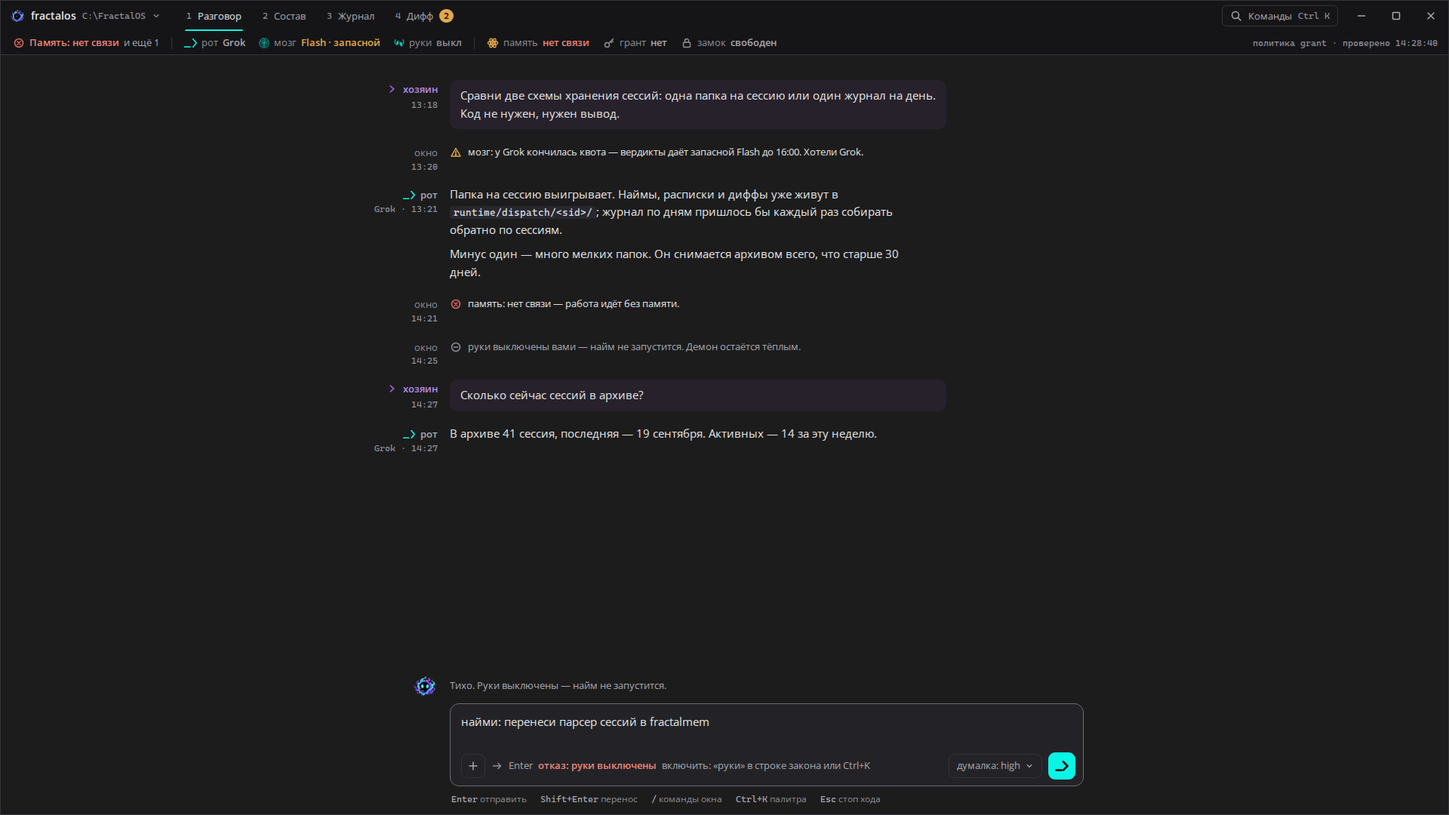
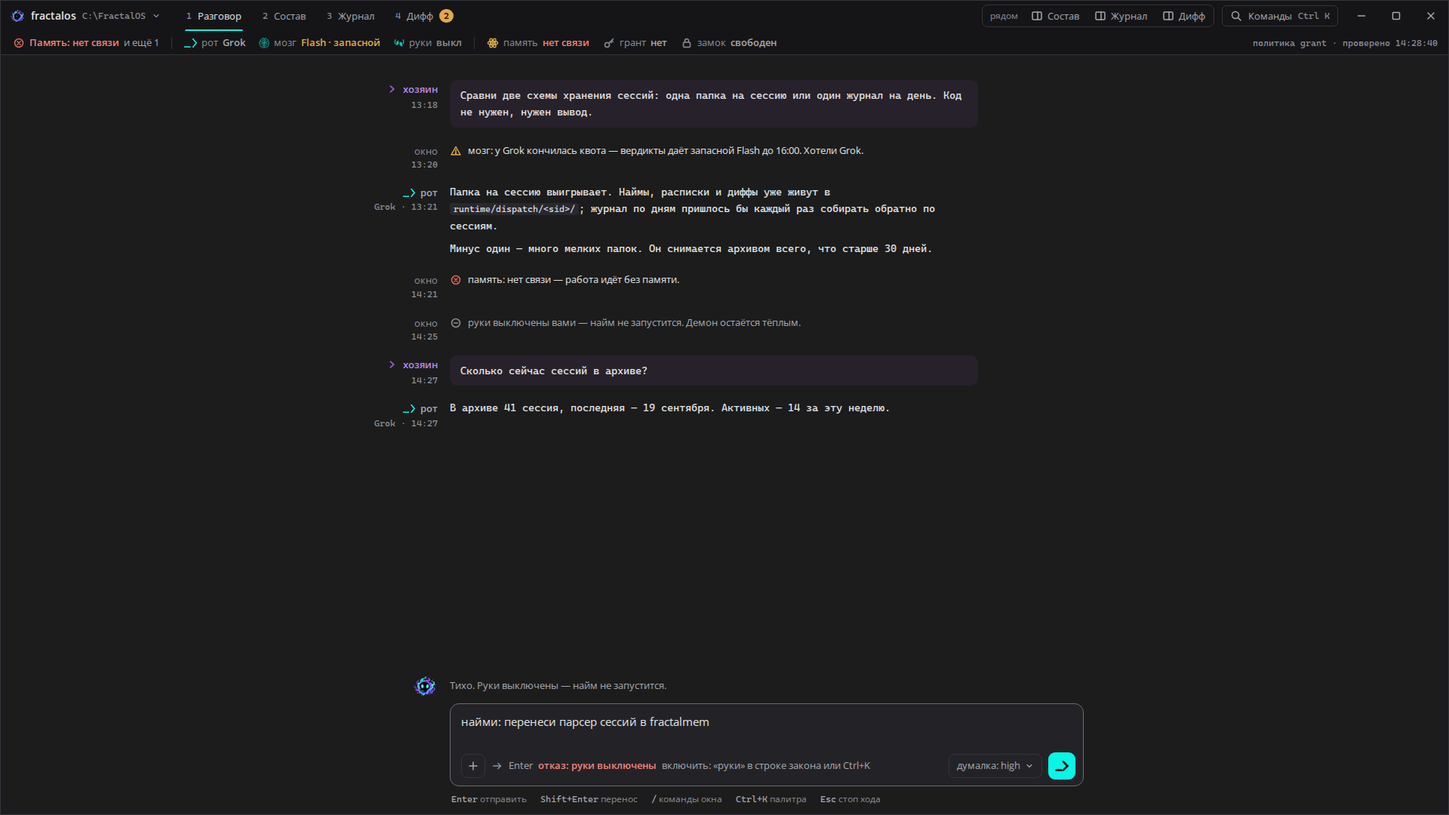
Раунд 1: лента моноширинным, кнопки «рядом» для дополнительных поверхностей
Claude-Session: https://claude.ai/code/session_01GEYAgXC2CYMH5bK9vX1dSj

Changed region(s): [[0.25, 0.1833, 0.625, 0.55], [0.3125, 0.0917, 0.6562, 0.1528], [0.6875, 0.0, 0.8438, 0.0306]]

diff --git a/rounds/01-terminal/index.html b/rounds/01-terminal/index.html
@@ -66,6 +66,11 @@ code,.mono{font-family:var(--font-mono)}
 .tab[aria-selected="true"]::after{content:"";position:absolute;left:12px;right:12px;bottom:0;height:2px;border-radius:2px 2px 0 0;background:var(--teal)}
 .badge{font:600 12px/18px var(--font-mono);color:var(--ink);background:var(--gold);border-radius:9px;padding:0 6px}
 .drag{flex:1;min-width:24px}
+.beside{display:flex;align-items:center;gap:2px;align-self:center;margin-right:10px;padding:2px;border:1px solid var(--line);border-radius:8px}
+.beside .lbl{padding:0 6px 0 8px;font-size:12px;color:var(--fg-3)}
+.beside button{display:flex;align-items:center;gap:6px;height:24px;padding:0 9px;border:0;border-radius:6px;background:none;color:var(--fg-2);font-size:13px}
+.beside button:hover{background:var(--bg-hover);color:var(--fg)}
+.beside button[aria-pressed="true"]{background:var(--select);color:var(--fg)}
 .pal-btn{display:flex;align-items:center;gap:8px;align-self:center;height:28px;margin-right:8px;padding:0 10px;border:1px solid var(--line);border-radius:var(--r-m);background:none;color:var(--fg-2);font-size:13px}
 .pal-btn:hover{border-color:var(--line-ctrl);color:var(--fg)}
 .winctl{display:flex}
@@ -88,11 +93,15 @@ code,.mono{font-family:var(--font-mono)}
 
 /* виды */
 .views{position:relative;display:grid;min-height:0;min-width:0}
-.views[data-split]{grid-template-columns:minmax(0,1fr) 1px minmax(0,1fr)}
-.views[data-split]::before{content:"";grid-column:2;grid-row:1;background:var(--line)}
+.views[data-split]{grid-template-columns:minmax(0,1fr) 1px minmax(0,1fr);grid-template-rows:auto minmax(0,1fr)}
+.views[data-split]::before{content:"";grid-column:2;grid-row:1 / 3;background:var(--line)}
+.side-head{display:none}
+.views[data-split] .side-head{display:flex;grid-column:3;grid-row:1;align-items:center;gap:6px;height:36px;padding:0 8px 0 16px;background:var(--bg-sunk);border-bottom:1px solid var(--line);font-size:13px;color:var(--fg-2)}
+.side-head b{font-weight:600;color:var(--fg);margin-right:auto}
+.side-head .btn{height:26px;padding:0 8px}
 .view{display:none;min-height:0;min-width:0;grid-row:1}
 .view.is-on{display:grid;animation:viewin var(--t) var(--ease)}
-.views[data-split] .view.is-left{grid-column:1} .views[data-split] .view.is-right{grid-column:3}
+.views[data-split] .view.is-left{grid-column:1;grid-row:1 / 3} .views[data-split] .view.is-right{grid-column:3;grid-row:2}
 @keyframes viewin{from{opacity:0;transform:translateY(4px)}to{opacity:1;transform:none}}
 
 /* ---------- вид «Разговор» ---------- */
@@ -110,6 +119,7 @@ code,.mono{font-family:var(--font-mono)}
 .prose{font-size:15px;line-height:1.58;max-width:70ch}
 .prose p{margin:0 0 .55em} .prose p:last-child{margin-bottom:0}
 [data-ledger-font="mono"] .prose{font:400 14px/1.6 var(--font-mono);max-width:84ch}
+[data-ledger-font="mono"] .turn.owner .body{max-width:calc(84ch + 28px)}
 .prose code,.inl{font:400 .87em var(--font-mono);background:#28282D;border-radius:var(--r-s);padding:1px 5px;color:#DCDCE2}
 .turn.owner .who{color:var(--owner-text)}
 .turn.owner .who .ico{color:var(--owner)}
@@ -322,7 +332,7 @@ details[open]>.sum .ico.chev{transform:rotate(90deg)}
 @media (max-width:1280px){.v-sostav{grid-template-columns:minmax(0,1fr) 320px}.gates{grid-template-columns:88px repeat(3,minmax(0,1fr));row-gap:12px}.gates .node:nth-child(n+5){grid-column:auto}}
 </style>
 </head>
-<body data-motion="on" data-ledger-font="sans">
+<body data-motion="on" data-ledger-font="mono">
 <svg width="0" height="0" style="position:absolute" aria-hidden="true">
   <symbol id="i-ok" viewBox="0 0 16 16"><circle cx="8" cy="8" r="4.5" fill="currentColor" stroke="none"/></symbol>
   <symbol id="i-warn" viewBox="0 0 16 16"><circle cx="8" cy="8" r="4.5"/><path d="M8 3.5a4.5 4.5 0 0 0 0 9z" fill="currentColor" stroke="none"/></symbol>
@@ -356,6 +366,7 @@ details[open]>.sum .ico.chev{transform:rotate(90deg)}
   <symbol id="i-window" viewBox="0 0 16 16"><rect x="2" y="3" width="12" height="10" rx="1.5"/><path d="M2 6h12"/></symbol>
   <symbol id="i-rule" viewBox="0 0 16 16"><path d="M4 2.5h8v11H4z"/><path d="M6 5.5h4M6 8h4M6 10.5h2"/></symbol>
   <symbol id="i-map" viewBox="0 0 16 16"><circle cx="8" cy="3.5" r="1.5"/><circle cx="3.5" cy="12.5" r="1.5"/><circle cx="12.5" cy="12.5" r="1.5"/><path d="M8 5v3M8 8L4 11M8 8l4 3"/></symbol>
+  <symbol id="i-split" viewBox="0 0 16 16"><rect x="2" y="3" width="12" height="10" rx="1.5"/><path d="M9 3v10"/></symbol>
   <symbol id="i-ring" viewBox="0 0 40 40"><circle cx="20" cy="20" r="18" stroke-dasharray="3 7" stroke-width="1.6"/><circle cx="20" cy="2" r="1.8" fill="currentColor" stroke="none"/></symbol>
 </svg>
 
@@ -369,6 +380,7 @@ details[open]>.sum .ico.chev{transform:rotate(90deg)}
     </button>
     <nav class="tabs" role="tablist" aria-label="Виды окна" id="tabs"></nav>
     <div class="drag" aria-hidden="true"></div>
+    <div class="beside" role="group" aria-label="Открыть рядом с разговором" id="beside"></div>
     <button class="pal-btn" id="palBtn" aria-haspopup="dialog"><svg class="ico" aria-hidden="true"><use href="#i-search"/></svg>Команды <kbd>Ctrl K</kbd></button>
     <div class="winctl">
       <button aria-label="Свернуть"><svg class="ico" aria-hidden="true"><use href="#i-min"/></svg></button>
@@ -380,6 +392,7 @@ details[open]>.sum .ico.chev{transform:rotate(90deg)}
   <div class="law" id="law" role="status" aria-live="polite" aria-label="Строка закона и здоровья"></div>
 
   <main class="views" id="views">
+    <div class="side-head" id="sideHead"></div>
     <section class="view v-talk" id="v-talk" role="tabpanel" aria-label="Разговор">
       <div class="scroll" id="ledgerScroll"><div class="col"><ol class="ledger" id="ledger" aria-label="Лента"></ol></div></div>
       <div class="dock"><div class="col">
@@ -492,7 +505,7 @@ function scenario(name){
 }
 
 let S = scenario("ok");
-let UI = {view:"talk", sel:"hands", split:false, palette:false, palMode:"all", palIdx:0, extra:[]};
+let UI = {view:"talk", sel:"hands", side:null, lastSide:"sostav", palette:false, palMode:"all", palIdx:0, extra:[]};
 
 /* ---------- проблемы для строки закона и сводки ---------- */
 function issues(s){
@@ -885,28 +898,40 @@ function renderAside(){
 /* ---------- виды ---------- */
 const VIEWS = [["talk","Разговор","1"],["sostav","Состав","2"],["journal","Журнал","3"],["diff","Дифф","4"]];
 function renderTabs(){
-  $("#tabs").innerHTML = VIEWS.map(([id,l,k])=>`<button class="tab" role="tab" data-view="${id}" aria-selected="${UI.view===id || (UI.split && id==="sostav")}" title="${l} · Ctrl+${k}"><kbd>${k}</kbd>${l}${id==="diff"&&S.diffs?` <span class="badge" aria-label="ждут проверки">${S.diffs}</span>`:""}</button>`).join("");
+  $("#tabs").innerHTML = VIEWS.map(([id,l,k])=>`<button class="tab" role="tab" data-view="${id}" aria-selected="${UI.side ? id==="talk" : UI.view===id}" title="${l} · Ctrl+${k}"><kbd>${k}</kbd>${l}${id==="diff"&&S.diffs?` <span class="badge" aria-label="ждут проверки">${S.diffs}</span>`:""}</button>`).join("");
 }
 function renderViews(){
   document.querySelectorAll(".view").forEach(v=>v.classList.remove("is-on","is-left","is-right"));
   const views = $("#views");
-  if (UI.split){
+  if (UI.side){
     views.setAttribute("data-split","");
-    $("#v-talk").classList.add("is-on","is-left"); $("#v-sostav").classList.add("is-on","is-right");
+    $("#v-talk").classList.add("is-on","is-left"); $("#v-"+UI.side).classList.add("is-on","is-right");
+    const name = SIDES.find(x=>x[0]===UI.side)[2];
+    $("#sideHead").innerHTML = `<b>${name}</b><button class="btn btn-quiet" data-full="${UI.side}">На весь экран</button><button class="btn btn-quiet" data-side="${UI.side}" aria-label="Закрыть: ${name}">${ico("close")}</button>`;
   } else {
     views.removeAttribute("data-split");
     $("#v-"+UI.view).classList.add("is-on");
   }
-  renderTabs();
-  if (UI.split || UI.view==="sostav") requestAnimationFrame(drawEdges);
+  renderTabs(); renderBeside();
+  if (UI.side==="sostav" || (!UI.side && UI.view==="sostav")) requestAnimationFrame(drawEdges);
 }
-function setView(v){ UI.view=v; UI.split=false; renderViews(); syncHash(); }
+const SIDES = [["sostav","Состав","Состав и здоровье"],["journal","Журнал","Журнал сессий"],["diff","Дифф","Дифф на проверку"]];
+function renderBeside(){
+  $("#beside").innerHTML = `<span class="lbl">рядом</span>` + SIDES.map(([id,l])=>`<button data-side="${id}" aria-pressed="${UI.side===id}" title="${UI.side===id?"Закрыть":"Открыть рядом с разговором"}: ${l}">${ico("split")}${l}</button>`).join("");
+}
+function setView(v){ UI.view=v; UI.side=null; renderViews(); syncHash(); }
+function toggleSide(id){
+  if (!id) id = UI.side || UI.lastSide;
+  UI.side = UI.side===id ? null : id;
+  if (UI.side){ UI.lastSide = UI.side; UI.view = "talk"; }
+  renderViews(); syncHash();
+}
 
 /* ---------- палитра ---------- */
 function commands(){
   const c = [];
   VIEWS.forEach(([id,l,k])=>c.push({g:"Виды", l: id==="sostav"?"Состав и здоровье":id==="journal"?"Журнал сессий":id==="diff"?"Дифф на проверку":l, k:"Ctrl+"+k, run:()=>setView(id)}));
-  c.push({g:"Виды", l: UI.split?"Одно окно":"Разделить: разговор и состав", k:"Ctrl+\\", run:toggleSplit});
+  SIDES.forEach(([id,l,full])=>c.push({g:"Рядом с разговором", l:(UI.side===id?"Закрыть: ":"Открыть рядом: ")+full, k: id===UI.lastSide?"Ctrl+\\":"", run:()=>toggleSide(id)}));
   PROJECTS.forEach(p=>c.push({g:"Проект", l:p.id, sub:p.rule, k: p.id===S.project?"текущий":"", run:()=>{S.project=p.id; $("#projName").textContent=p.id; $("#projPath").textContent=p.path;}}));
   c.push({g:"Роли", l: S.hands.on?"Выключить руки":"Включить руки", run:()=>act("hands")});
   c.push({g:"Роли", l: S.brain.prov==="Grok"?"Мозг на Flash":"Мозг на Grok", run:()=>{S.brain.prov = S.brain.prov==="Grok"?"Flash":"Grok"; S.brain.st="ok"; renderAll();}});
@@ -956,20 +981,19 @@ function act(a){
   if (a==="stop"){ S.running=false; S.hands.busy=false; S.lock={holder:null}; UI.extra.push(T.note("14:42","info","работа снята вами — найм 3f9a1c2e остановлен, рот не тронут")); }
   renderAll();
 }
-function toggleSplit(){ UI.split=!UI.split; if(!UI.split) UI.view="talk"; renderViews(); syncHash(); }
 
 /* ---------- состояние в адресе (для снимков) ---------- */
 function syncHash(){
   const p = new URLSearchParams(); p.set("s",S.name); p.set("v",UI.view); p.set("sel",UI.sel);
-  if (UI.split) p.set("split","1");
+  if (UI.side) p.set("side",UI.side);
   history.replaceState(null,"","#"+p.toString());
 }
 function load(name){ S = scenario(name); UI.extra=[]; $("#field").value = S.draft; autosize(); renderAll(); syncHash(); }
 function fromHash(){
   const p = new URLSearchParams(location.hash.slice(1));
   S = scenario(p.get("s")||"ok"); UI.extra=[];
-  UI.view = p.get("v")||"talk"; UI.sel = p.get("sel")||"hands"; UI.split = p.get("split")==="1";
-  document.body.dataset.ledgerFont = p.get("f")==="mono" ? "mono" : "sans";
+  UI.view = p.get("v")||"talk"; UI.sel = p.get("sel")||"hands"; UI.side = p.get("side")||null;
+  document.body.dataset.ledgerFont = p.get("f")==="sans" ? "sans" : "mono";
   $("#field").value = S.draft; autosize();
   renderAll();
   if (p.get("palette")) openPalette(p.get("palette")==="project"?"project":"all");
@@ -979,10 +1003,12 @@ function renderAll(){ renderLaw(); renderLedger(); renderActivity(); renderRoute
 
 /* ---------- события ---------- */
 document.addEventListener("click", e=>{
-  const t = e.target.closest("[data-view],[data-go],[data-node],[data-act],[data-i]");
+  const t = e.target.closest("[data-view],[data-go],[data-node],[data-act],[data-i],[data-side],[data-full]");
   if (!t) return;
   if (t.dataset.view){ setView(t.dataset.view); return; }
-  if (t.dataset.go){ UI.sel=t.dataset.go; UI.view="sostav"; UI.split=false; renderSostav(); renderViews(); syncHash(); return; }
+  if (t.dataset.side){ toggleSide(t.dataset.side); return; }
+  if (t.dataset.full){ setView(t.dataset.full); return; }
+  if (t.dataset.go){ UI.sel=t.dataset.go; if (UI.side) UI.side="sostav"; else UI.view="sostav"; renderSostav(); renderViews(); syncHash(); return; }
   if (t.dataset.node){ UI.sel=t.dataset.node; renderSostav(); syncHash(); return; }
   if (t.dataset.i!==undefined){ runPalette(+t.dataset.i); return; }
   if (t.dataset.act!==undefined && t.dataset.act) act(t.dataset.act);
@@ -1014,7 +1040,7 @@ document.addEventListener("keydown", e=>{
   if (["1","2","3","4"].includes(k)){ e.preventDefault(); setView(VIEWS[+k-1][0]); }
   else if (k==="k"){ e.preventDefault(); UI.palette?closePalette():openPalette("all"); }
   else if (k==="p"||k==="з"){ e.preventDefault(); openPalette("project"); }
-  else if (k==="\\"){ e.preventDefault(); toggleSplit(); }
+  else if (k==="\\"){ e.preventDefault(); toggleSide(); }
 });
 window.addEventListener("resize", ()=>requestAnimationFrame(drawEdges));
 window.addEventListener("hashchange", fromHash);

diff --git a/rounds/01-terminal/NOTES.md b/rounds/01-terminal/NOTES.md
@@ -46,14 +46,17 @@
   пишет, зачем. Пока окно открыто, строка закона показывает срок.
 - **Палитра `Ctrl+K`**: виды, проекты (`Ctrl+P`), роли, грант, сессия,
   настройки окна. Всё делается с клавиатуры.
-- **На вашем 2560×1440** окно не пустеет: `Ctrl+\` делит его на «Разговор» и
-  «Состав» бок о бок.
+- **Лента — моноширинным шрифтом**, как сейчас в окне: так выбрал хозяин.
+- **Окно по умолчанию одно.** В заголовке кнопки «рядом: Состав · Журнал ·
+  Дифф»: нажатая открывает поверхность справа от разговора, повторное нажатие
+  или «×» закрывает, «На весь экран» переключает вид целиком. `Ctrl+\` — последняя
+  открытая поверхность.
 
 ---
 
 ## 2. Снимки
 
-Все снимки сделаны `tools/shots.mjs` в 1440×900 и 1920×1080; кадр с разделением — в 2560×1440.
+Все снимки сделаны `tools/shots.mjs` в 1440×900 и 1920×1080; кадры широкого экрана — в 2560×1440, кадр «рядом: Дифф» — в 1920×1080.
 На снимках шрифт Open Sans заменяет Segoe UI (см. `assets/fonts/README.md`).
 
 | # | Что | 1440×900 | 1920×1080 |
@@ -65,7 +68,9 @@
 | 05 | Состав: всё работает, выбраны руки | ![](shots/05-sostav-1440x900.png) | ![](shots/05-sostav-1920x1080.png) |
 | 06 | Состав: память лежит, мозг с оговоркой | ![](shots/06-sostav-ogovorki-1440x900.png) | ![](shots/06-sostav-ogovorki-1920x1080.png) |
 | 07 | Палитра команд | ![](shots/07-palitra-1440x900.png) | ![](shots/07-palitra-1920x1080.png) |
-| 08 | 2560×1440: разговор и состав рядом | ![](shots/08-razdelenie-2560-2560x1440.png) | — |
+| 08 | 2560×1440: окно по умолчанию — одно | ![](shots/08-2560-odno-okno-2560x1440.png) | — |
+| 09 | 2560×1440: нажата кнопка «рядом: Состав» | ![](shots/09-2560-ryadom-sostav-2560x1440.png) | — |
+| 10 | 1920×1080: нажата кнопка «рядом: Дифф» | — | ![](shots/10-ryadom-diff-1920x1080.png) |
 
 ---
 
@@ -76,6 +81,7 @@
 ├── Заголовок 40px
 │   ├── проект ▾  (Ctrl+P)          fractalos · C:\FractalOS
 │   ├── вкладки   1 Разговор · 2 Состав · 3 Журнал · 4 Дифф [2]
+│   ├── рядом     Состав · Журнал · Дифф   (открывают поверхность справа)
 │   └── Команды   (Ctrl+K) · свернуть / развернуть / закрыть
 ├── Строка закона 32px     ← всегда на виду, любой сегмент → «Состав»
 │   общее состояние | рот · мозг · руки | память · грант · замок | политика · время проверки
@@ -84,7 +90,7 @@
     ├── 2 Состав     сводка → карта 12 частей → события системы → шлюзы и правила | карточка части
     ├── 3 Журнал     раунд 2
     └── 4 Дифф       раунд 2
-Палитра (Ctrl+K) — поверх любого вида.  Ctrl+\ — «Разговор» и «Состав» рядом.
+Кнопки «рядом» — Состав / Журнал / Дифф справа от разговора.  Палитра (Ctrl+K) — поверх любого вида.
 ```
 
 **Куда переехало содержимое рельса:**
@@ -107,7 +113,7 @@
 | `Ctrl+1…4` | виды |
 | `Ctrl+K` | палитра команд |
 | `Ctrl+P` | проект |
-| `Ctrl+\` | разделить окно: разговор и состав |
+| `Ctrl+\` | открыть или закрыть последнюю поверхность «рядом» |
 | `Enter` / `Shift+Enter` | отправить / перенос строки |
 | `Esc` | закрыть палитру; снять работу, если идёт найм |
 
@@ -202,10 +208,17 @@
 выключить» и системной настройкой «уменьшить движение».
 
 ### 5.10 Длина строки и шрифты
-Речь набрана Segoe UI 15px, строка не длиннее 70 символов. Пути, код, время и
-трасса — Cascadia Mono. Колонка ленты — около 1000px по центру: даже на 2560 не
-получится строки на 170 символов. Для тех, кто привык к ленте целиком в моно,
-в палитре есть «Лента: моноширинный шрифт» — вопрос 1 в §9.
+Лента набрана Cascadia Mono 14px — выбор хозяина: «так удобнее». Строка не
+длиннее 84 символов, колонка около 1000px по центру, поэтому даже на 2560 строк
+на 170 символов не будет. Хром окна — Segoe UI. Пропорциональный шрифт ленты
+остался в палитре («Лента: пропорциональный шрифт»), но по умолчанию его нет.
+
+### 5.11 Дополнительные поверхности — кнопками, по умолчанию окно одно
+Хозяин: окно на широком мониторе само не делится; есть кнопки для
+дополнительных поверхностей, и они делят. В заголовке группа «рядом: Состав ·
+Журнал · Дифф» — это переключатели с нажатым состоянием. Открыта одна
+поверхность за раз, всегда справа от разговора. У неё своя шапка: имя, «На весь
+экран», «×». Вкладки `Ctrl+1…4` по-прежнему показывают вид на всё окно.
 
 ---
 
@@ -215,6 +228,8 @@
 |---|---|
 | **Окно** | Безрамочный `QWidget`, `QVBoxLayout`: заголовок, строка закона, `QStackedWidget` видов. Прилипание к краям — `nativeEvent` + `WM_NCHITTEST`. |
 | **Проект ▾** | `QToolButton` с иконкой и двумя `QLabel` (имя, путь моно); открывает палитру в режиме «Проект». |
+| **Кнопки «рядом»** | `QButtonGroup(exclusive=false)` из трёх `QToolButton(checkable)` с иконкой; нажатая — QSS `:checked`. Открывают правую панель `QSplitter`. |
+| **Шапка боковой поверхности** | `QWidget` 36px: `QLabel` имени, `QToolButton` «На весь экран» и «×». |
 | **Вкладки видов** | `QButtonGroup` из `QPushButton(checkable)`; подчёркивание 2px — QSS `border-bottom: 2px solid #09F5E5` у `:checked`; цифра — отдельный `QLabel` моно. Горячие клавиши — `QShortcut("Ctrl+1")`… |
 | **Бейдж «Дифф 2»** | `QLabel` с QSS `border-radius: 9px; background: #E2A84A; color: #151517`. |
 | **Строка закона** | `QHBoxLayout` из `QToolButton` (иконка + текст), состояние — динамическое свойство `setProperty("state","warn")` + QSS `QToolButton[state="warn"]`. Разделители — `QFrame` шириной 1px. Правый край — `QLabel` с `elidedText`. |
@@ -303,10 +318,9 @@
 
 ## 9. Открытые вопросы
 
-1. **Шрифт ленты:** речь пропорциональным (как в прототипе) или всё моно, как
-   сейчас в окне? Сравнить можно в палитре: «Лента: моноширинный шрифт».
+1. ~~Шрифт ленты~~ — снят: моноширинный (§5.10).
 2. ~~Как называть память~~ — снят: хозяин не хочет чисел, память показана словом «работает» / «нет связи».
-3. **Разделение на 2560:** включать его само на широком окне или только по `Ctrl+\`?
+3. ~~Разделение на 2560~~ — снят: по умолчанию одно окно, делят кнопки «рядом» (§5.11).
 4. **«Журнал» и «Дифф»** строятся в раунде 2. Что важнее первым: журнал сессий или
    приёмка диффа?
 

diff --git a/DECISIONS.md b/DECISIONS.md
@@ -14,6 +14,8 @@
 | 1.6 | `DESIGN.md` не пишется до финального раунда. | Документировать мир сейчас | Дизайн-система собирается в `design-system/` в финале; ранний `DESIGN.md` закрепил бы то, что ещё поменяется. |
 | 1.7 | Финальная проверка Impeccable — в одном контексте, без субагента, с раскрытием. | Субагент-проверяющий | По правилам сессии субагентов запускаю только по прямой просьбе хозяина. |
 | 1.8 | Шрифты в репозитории: Cascadia Mono и Open Sans (OFL); Open Sans — только замена Segoe UI на снимках. | Selawik | В репозитории Selawik нет готовых TTF, а кириллица в нём, по всей видимости, отсутствует. |
+| 1.11 | Окно по умолчанию одно. Дополнительные поверхности (Состав, Журнал, Дифф) открываются кнопками «рядом» справа от разговора, по одной. | Делить само на широком окне; только `Ctrl+\` | Хозяин: «по умолчанию не делится, есть кнопки для дополнительных поверхностей (они делят)». |
+| 1.10 | Лента — моноширинным шрифтом (Cascadia Mono), хром — Segoe UI. | Пропорциональная речь в ленте | Хозяин сравнил картинки 2 и 3: «удобней так» (моно). |
 | 1.9 | Текст хозяина — светлый; пурпур остаётся на метке, значке и подложке хода. | Весь ход пурпуром | Пурпур `#9B59D0` на тексте — 3.84:1, ниже AA. |
 
 ## Раунд 0 — разбор (2026-09-24)
